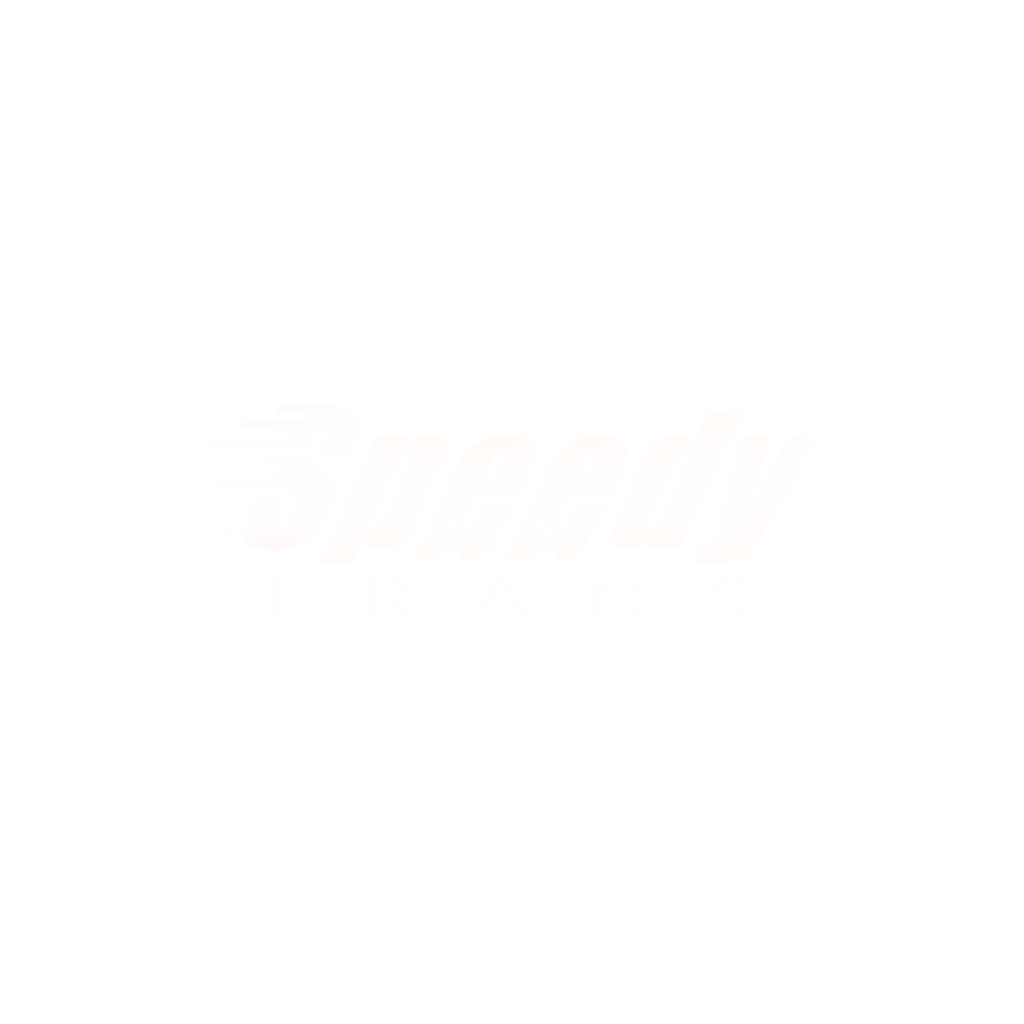
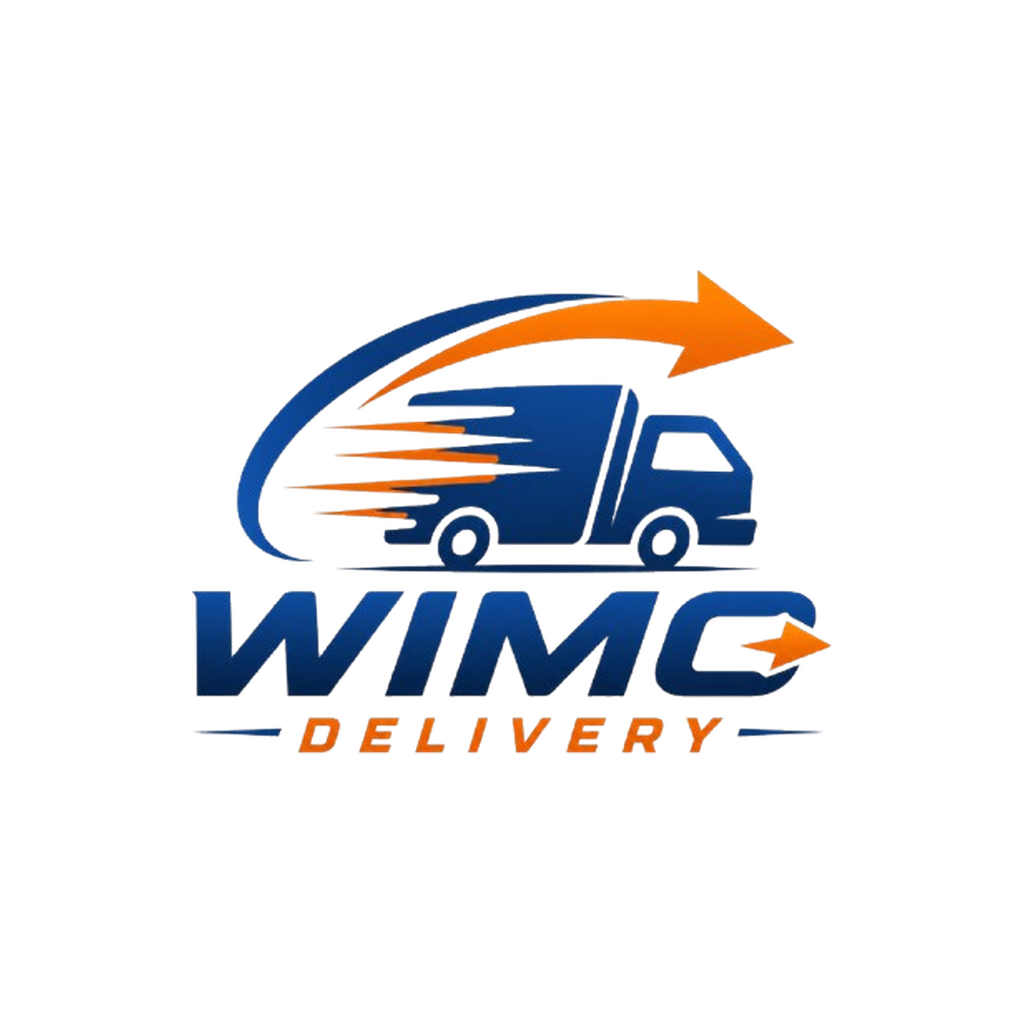
feat(mobile): Wimo Delivery app identity, blue palette, API host as build constant, version 1.0.0 (#16)

Changed region(s): [[0.1875, 0.25, 0.8125, 0.75]]

diff --git a/mobile/src/config/brand.ts b/mobile/src/config/brand.ts
@@ -24,7 +24,7 @@
  */
 
 /** Le sous-domaine servi, ou `null` pour redemander la société au lancement. */
-export const BRAND_TENANT: string | null = 'speedy';
+export const BRAND_TENANT: string | null = 'wimo';
 
 /** L'application sert-elle un seul transporteur ? */
 export const IS_SINGLE_TENANT = BRAND_TENANT !== null;
@@ -41,7 +41,7 @@ export const IS_SINGLE_TENANT = BRAND_TENANT !== null;
 export const BRAND_LOGO = require('../../assets/brand-logo.png') as number;
 
 /** Largeur / hauteur de `brand-logo.png` (480 × 167). */
-export const BRAND_LOGO_RATIO = 480 / 167;
+export const BRAND_LOGO_RATIO = 480 / 364;
 
 /**
  * LE NOM COURT DE REPLI — lot D, D2 (D-189).
@@ -51,4 +51,4 @@ export const BRAND_LOGO_RATIO = 480 / 167;
  * première réponse, et hors ligne sans cache, c'est celui-ci. Une constante du
  * binaire du tenant, comme `BRAND_TENANT` : elle part en OTA.
  */
-export const BRAND_SHORT_NAME = 'Speedy';
+export const BRAND_SHORT_NAME = 'Wimo';

diff --git a/mobile/src/theme/courier-palette.ts b/mobile/src/theme/courier-palette.ts
@@ -68,7 +68,7 @@ interface Pastille {
 }
 
 const LIGHT: Record<TileKey, Pastille> = {
-  pickups: { tint: '#FFE4CC', icon: '#B45309' }, // orange clair
+  pickups: { tint: '#D6F0FF', icon: '#0369A1' }, // bleu ciel
   deliveries: { tint: '#DCEBFF', icon: '#1D4ED8' }, // bleu
   stock: { tint: '#FFE0EA', icon: '#BE185D' }, // rose
   parcels: { tint: '#DCF5E3', icon: '#15803D' }, // vert
@@ -78,7 +78,7 @@ const LIGHT: Record<TileKey, Pastille> = {
 };
 
 const DARK: Record<TileKey, Pastille> = {
-  pickups: { tint: '#B4530940', icon: '#FDBA74' },
+  pickups: { tint: '#0369A140', icon: '#7DD3FC' },
   deliveries: { tint: '#1D4ED840', icon: '#93C5FD' },
   stock: { tint: '#BE185D40', icon: '#F9A8D4' },
   parcels: { tint: '#15803D40', icon: '#86EFAC' },

diff --git a/mobile/src/lib/tenant.ts b/mobile/src/lib/tenant.ts
@@ -66,7 +66,8 @@ export function apiBaseUrl(slug: string): string {
  * Voir `config/environment.ts` : c'est le canal natif qui tranche.
  */
 function originFor(slug: string): string {
-  if (APP_ENVIRONMENT === 'production') return PRODUCTION_API_ORIGIN;
+  // Wimo : l'hôte de l'API est une constante de build (`EXPO_PUBLIC_API_URL`, eas.json), quel que soit le canal.
+  if (APP_ENVIRONMENT === 'production' || PRODUCTION_API_ORIGIN) return PRODUCTION_API_ORIGIN;
 
   return developmentApiOverride() ?? `https://${normalizeSlug(slug)}.${PLATFORM_DOMAIN}`;
 }

diff --git a/mobile/src/theme/tenant-theme.tsx b/mobile/src/theme/tenant-theme.tsx
@@ -127,7 +127,7 @@ interface TenantTheme {
 }
 
 /** La marque de la plateforme — `PLATFORM_BRAND` du web, en deux couleurs. */
-const PLATFORM_FALLBACK = { primary: '#F05A28', secondary: '#1F1F1F' };
+const PLATFORM_FALLBACK = { primary: '#0F62FE', secondary: '#0A1F44' };
 
 const FALLBACK_TOKENS = buildThemeTokens(PLATFORM_FALLBACK);
 const FALLBACK_LIGHT = resolveTokens(FALLBACK_TOKENS.light);

diff --git a/mobile/src/components/profile-screen.tsx b/mobile/src/components/profile-screen.tsx
@@ -19,8 +19,8 @@ const BIOMETRIC_KEY = 'app.biometric';
 
 /** Les deux pages légales, exigées par les magasins, servies par la plateforme. */
 const LEGAL = {
-  privacy: 'https://delivery.nocido.com/privacy',
-  terms: 'https://delivery.nocido.com/terms',
+  privacy: 'https://new.wimodelivery.ma/fr/privacy',
+  terms: 'https://new.wimodelivery.ma/fr/terms',
 };
 
 /**

diff --git a/mobile/app.config.js b/mobile/app.config.js
@@ -21,7 +21,7 @@ module.exports = ({ config }) => {
 
   return {
     ...config,
-    name: 'SpeedyTrans Recette',
+    name: 'Wimo Delivery Recette',
     icon: './assets/icon-recette.png',
     ios: {
       ...config.ios,
